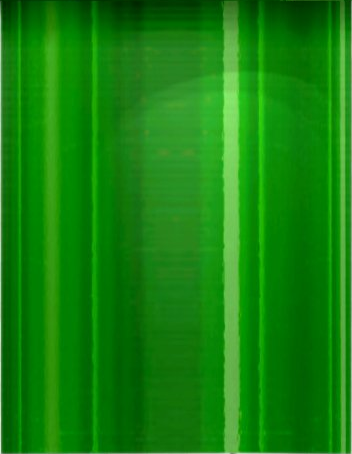
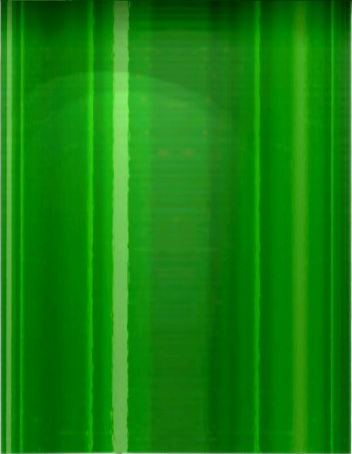
Added graphics to pipes and a scrolling background.

diff --git a/src/main/java/bauwerk78/model/Pipes.java b/src/main/java/bauwerk78/model/Pipes.java
@@ -1,6 +1,7 @@
 package bauwerk78.model;
 
 import javafx.geometry.Rectangle2D;
+import javafx.scene.image.Image;
 import javafx.scene.paint.Color;
 import javafx.scene.canvas.GraphicsContext;
 
@@ -9,7 +10,10 @@ import java.util.Random;
 public class Pipes extends GameObject {
 
     private static Random rand = new Random();
-
+    private Image pipeFromTop = new Image("file:Images/Objects/Pipes/pipe_going_down.png");
+    private Image pipeFromBottom = new Image("file:Images/Objects/Pipes/pipe_going_up.png");
+    private Image pipeFromTopTop = new Image("file:Images/Objects/Pipes/pipe_top_going_down.png");
+    private Image pipeFromBottomTop = new Image("file:Images/Objects/Pipes/pipe_top_going_up.png");
     private double upperYPosition;
     private double lowerYPosition;
     private double minimumHeight;
@@ -44,21 +48,29 @@ public class Pipes extends GameObject {
         update();
         //Lower pipe
         setLowerYPosition(Renderer.windowHeight - getLowerHeight());
+
         gc.setFill(Color.BLACK);
         gc.fillRect(getPositionX(), getLowerYPosition(), getObjectWidth(), getLowerHeight());
+        gc.drawImage(pipeFromBottom, getPositionX(), getLowerYPosition() + 10, getObjectWidth(), getLowerHeight() - 10);
+        gc.drawImage(pipeFromBottomTop, getPositionX() - 5, getLowerYPosition(), getObjectWidth() + 10, 10);
+
+
         //Upper pipe
         setUpperYPosition(0);
         gc.setFill(Color.BLACK);
         gc.fillRect(getPositionX(), getUpperYPosition(), getObjectWidth(), getUpperHeight());
+        gc.drawImage(pipeFromTop, getPositionX(), getUpperYPosition(), getObjectWidth(), getUpperHeight() - 10);
+        gc.drawImage(pipeFromTopTop, getPositionX() - 5, getUpperHeight() - 10, getObjectWidth() + 10, 10);
     }
 
     private void setPipes() {
         //Upper pipe.
         setUpperHeight(rand.nextInt(Renderer.windowHeight - ((int) getGapValue() / 2) - ((int) getMinimumHeight() * 2)) + getMinimumHeight());
-        //System.out.println("upperheight " + getUpperHeight());
+        //setUpperHeight( (getUpperHeight()) / 10d * 10);
+        System.out.println("upperheight " + getUpperHeight());
         //Lower pipe.
         setLowerHeight((Renderer.windowHeight - getUpperHeight()) - ((int) getGapValue() / 2d));
-        //System.out.println("lowerheight " + getLowerHeight());
+        System.out.println("lowerheight " + getLowerHeight());
     }
 
     public Rectangle2D getUpperPipeBoundary() {

diff --git a/src/main/java/bauwerk78/model/Game.java b/src/main/java/bauwerk78/model/Game.java
@@ -13,27 +13,19 @@ import java.io.FileWriter;
 import java.io.IOException;
 import java.util.ArrayList;
 import java.util.Iterator;
-import java.util.Random;
 import java.util.Scanner;
 
 import static bauwerk78.model.Renderer.*;
 
 public class Game {
 
-    private static Random rand = new Random();
-
-    private double upperPipeHeight;
-    private double lowerPipeHeight;
-    private double minimumPipeHeight;
     private double pipeWidth;
     private double pipesStartingXPoint;
-    private boolean renderNewPipes = false;
     private double renderTimer;
     private boolean gameOver = false;
     private double gameScore;
     private double highScore;
     private File file;
-    private FileWriter fileWriter;
 
     private ArrayList<Pipes> pipes = new ArrayList<>();
     private Bird bird;
@@ -112,7 +104,7 @@ public class Game {
 
     public void saveHighScore() {
         try {
-            fileWriter = new FileWriter(file);
+            FileWriter fileWriter = new FileWriter(file);
             fileWriter.write(Double.toString(highScore));
             fileWriter.close();
         } catch (IOException e) {
@@ -177,14 +169,6 @@ public class Game {
         this.renderTimer = renderTimer;
     }
 
-    public boolean isRenderNewPipes() {
-        return renderNewPipes;
-    }
-
-    public void setRenderNewPipes(boolean renderNewPipes) {
-        this.renderNewPipes = renderNewPipes;
-    }
-
     public double getPipesStartingXPoint() {
         return pipesStartingXPoint;
     }
@@ -201,27 +185,4 @@ public class Game {
         this.pipeWidth = pipeWidth;
     }
 
-    public double getUpperPipeHeight() {
-        return upperPipeHeight;
-    }
-
-    public void setUpperPipeHeight(double upperPipeHeight) {
-        this.upperPipeHeight = upperPipeHeight;
-    }
-
-    public double getLowerPipeHeight() {
-        return lowerPipeHeight;
-    }
-
-    public void setLowerPipeHeight(double lowerPipeHeight) {
-        this.lowerPipeHeight = lowerPipeHeight;
-    }
-
-    public double getMinimumPipeHeight() {
-        return minimumPipeHeight;
-    }
-
-    public void setMinimumPipeHeight(double minimumPipeHeight) {
-        this.minimumPipeHeight = minimumPipeHeight;
-    }
 }

diff --git a/src/main/java/bauwerk78/model/Bird.java b/src/main/java/bauwerk78/model/Bird.java
@@ -4,7 +4,6 @@ import javafx.event.EventHandler;
 import javafx.geometry.Rectangle2D;
 import javafx.scene.Scene;
 import javafx.scene.canvas.GraphicsContext;
-import javafx.scene.image.Image;
 import javafx.scene.input.KeyEvent;
 
 import java.util.ArrayList;
@@ -13,30 +12,19 @@ import static bauwerk78.model.Renderer.elapsedTime;
 
 public class Bird {
 
-
-    private Image image;
     private ArrayList<String> input = new ArrayList<>();
     private BirdAnimation birdAnimation;
     private double positionX;
     private double positionY;
     private double velocity = 0;
     private double jumpSpeed = -30;
-    private double speedX = 200;
     private final double gravity = 200;
-    private double circleHeight = 50;
-    private double circleWidth = 50;
     private double imageWidth;
     private double imageHeight;
     private boolean gameOver;
 
-
     public Bird() {
         initBird();
-    }
-
-    public void setImage() {
-        image = new Image("file:Images/mario_rambo2.gif", getImageWidth(), getImageHeight(), true, false);
-
     }
 
     private void getPlayerInput(Scene scene) {
@@ -62,7 +50,6 @@ public class Bird {
     public void initBird() {
         setImageWidth(80);
         setImageHeight(50);
-        setImage();
         setPositionX(100);
         setPositionY((Renderer.windowHeight / 2d) - getImageHeight());
         birdAnimation = new BirdAnimation(positionX, positionY, getImageWidth(), getImageHeight());
@@ -72,7 +59,7 @@ public class Bird {
         return new Rectangle2D(getPositionX(), getPositionY(), getImageWidth(), getImageHeight());
     }
 
-    public void playerInputResponse(GraphicsContext gc, Scene scene) {
+    public void playerInputResponse(Scene scene) {
         getPlayerInput(scene);
         if (input.contains("UP")) {
             //System.out.println("jump?");
@@ -83,7 +70,7 @@ public class Bird {
     }
 
     public void renderBird(GraphicsContext gc, Scene scene) {
-        playerInputResponse(gc, scene);
+        playerInputResponse(scene);
         velocity += (gravity * elapsedTime);
         setPositionY(getPositionY() + (velocity * elapsedTime));
         if (getPositionY() < 0) {

diff --git a/src/main/java/bauwerk78/graphics/ScrollingBackground.java b/src/main/java/bauwerk78/graphics/ScrollingBackground.java
@@ -1,0 +1,70 @@
+package bauwerk78.graphics;
+
+import bauwerk78.model.Renderer;
+import javafx.scene.image.Image;
+import javafx.scene.image.ImageView;
+import javafx.scene.layout.Pane;
+import javafx.scene.layout.Region;
+
+public class ScrollingBackground {
+
+    private ImageView imageView1 = new ImageView();
+    private ImageView imageView2 = new ImageView();
+
+    private Pane pane = new Pane();
+
+    private double imageWidth;
+    private double imageHeight;
+    private double imageView1PosX;
+    private double imageView2PosX;
+
+    private double posX;
+    private double posY;
+    private double backgroundScrollSpeed = 100;
+
+    public ScrollingBackground() {
+        init();
+    }
+
+    private void init() {
+        Image image = new Image("file:Images/Backgrounds/flappy_bg.png");
+        imageWidth = Renderer.windowWidth;
+        imageHeight = Renderer.windowHeight;
+
+        imageView1.setImage(image);
+
+        imageView1.setFitHeight(imageHeight);
+        imageView1.setFitWidth(imageWidth);
+
+
+        imageView2.setImage(image);
+        imageView2.setFitHeight(imageHeight);
+        imageView2.setFitWidth(imageWidth);
+
+        pane.getChildren().addAll(imageView1, imageView2);
+
+        imageView1PosX = 0;
+        imageView2PosX = imageWidth;
+    }
+
+    public void update() {
+        if(imageView1PosX < imageView2PosX && imageView1PosX <= -imageWidth) {
+            imageView1PosX = imageView2PosX + imageWidth;
+        }
+        if(imageView2PosX < imageView1PosX && imageView2PosX <= -imageWidth) {
+            imageView2PosX = imageView1PosX + imageWidth;
+        }
+        imageView1PosX = imageView1PosX - backgroundScrollSpeed * Renderer.elapsedTime;
+        imageView2PosX = imageView2PosX - backgroundScrollSpeed * Renderer.elapsedTime;
+
+        imageView1.relocate(imageView1PosX, 0);
+        imageView2.relocate(imageView2PosX, 0);
+    }
+
+    public Pane getPane(){
+        return pane;
+    }
+
+
+
+}//End of class.

diff --git a/src/main/java/bauwerk78/model/Renderer.java b/src/main/java/bauwerk78/model/Renderer.java
@@ -1,5 +1,6 @@
 package bauwerk78.model;
 
+import bauwerk78.graphics.ScrollingBackground;
 import javafx.animation.AnimationTimer;
 import javafx.application.Application;
 import javafx.scene.Group;
@@ -25,13 +26,15 @@ public class Renderer extends Application {
 
         primaryStage.setTitle("The bird is the word.");
         Group root = new Group();
-        Scene mainScene = new Scene(root);
+        Scene mainScene = new Scene(root, windowWidth, windowHeight);
 
         primaryStage.setScene(mainScene);
         primaryStage.setResizable(false);
         primaryStage.sizeToScene();
 
-        Canvas canvas = new Canvas(windowWidth, windowHeight);
+        Canvas canvas = new Canvas(windowWidth * 2, windowHeight);
+        ScrollingBackground scrollingBackground = new ScrollingBackground();
+        root.getChildren().add(scrollingBackground.getPane());
         root.getChildren().add(canvas);
 
         GraphicsContext gc = canvas.getGraphicsContext2D();
@@ -40,10 +43,12 @@ public class Renderer extends Application {
         GameObject pipe = new Pipe();*/
         Game game = new Game();
 
+
         new AnimationTimer() {
             public void handle(long currentNanoTime) {
                 nanoTimer(currentNanoTime);
                 game.mainGameLoop(gc, mainScene);
+                scrollingBackground.update();
             }
         }.start();
 
